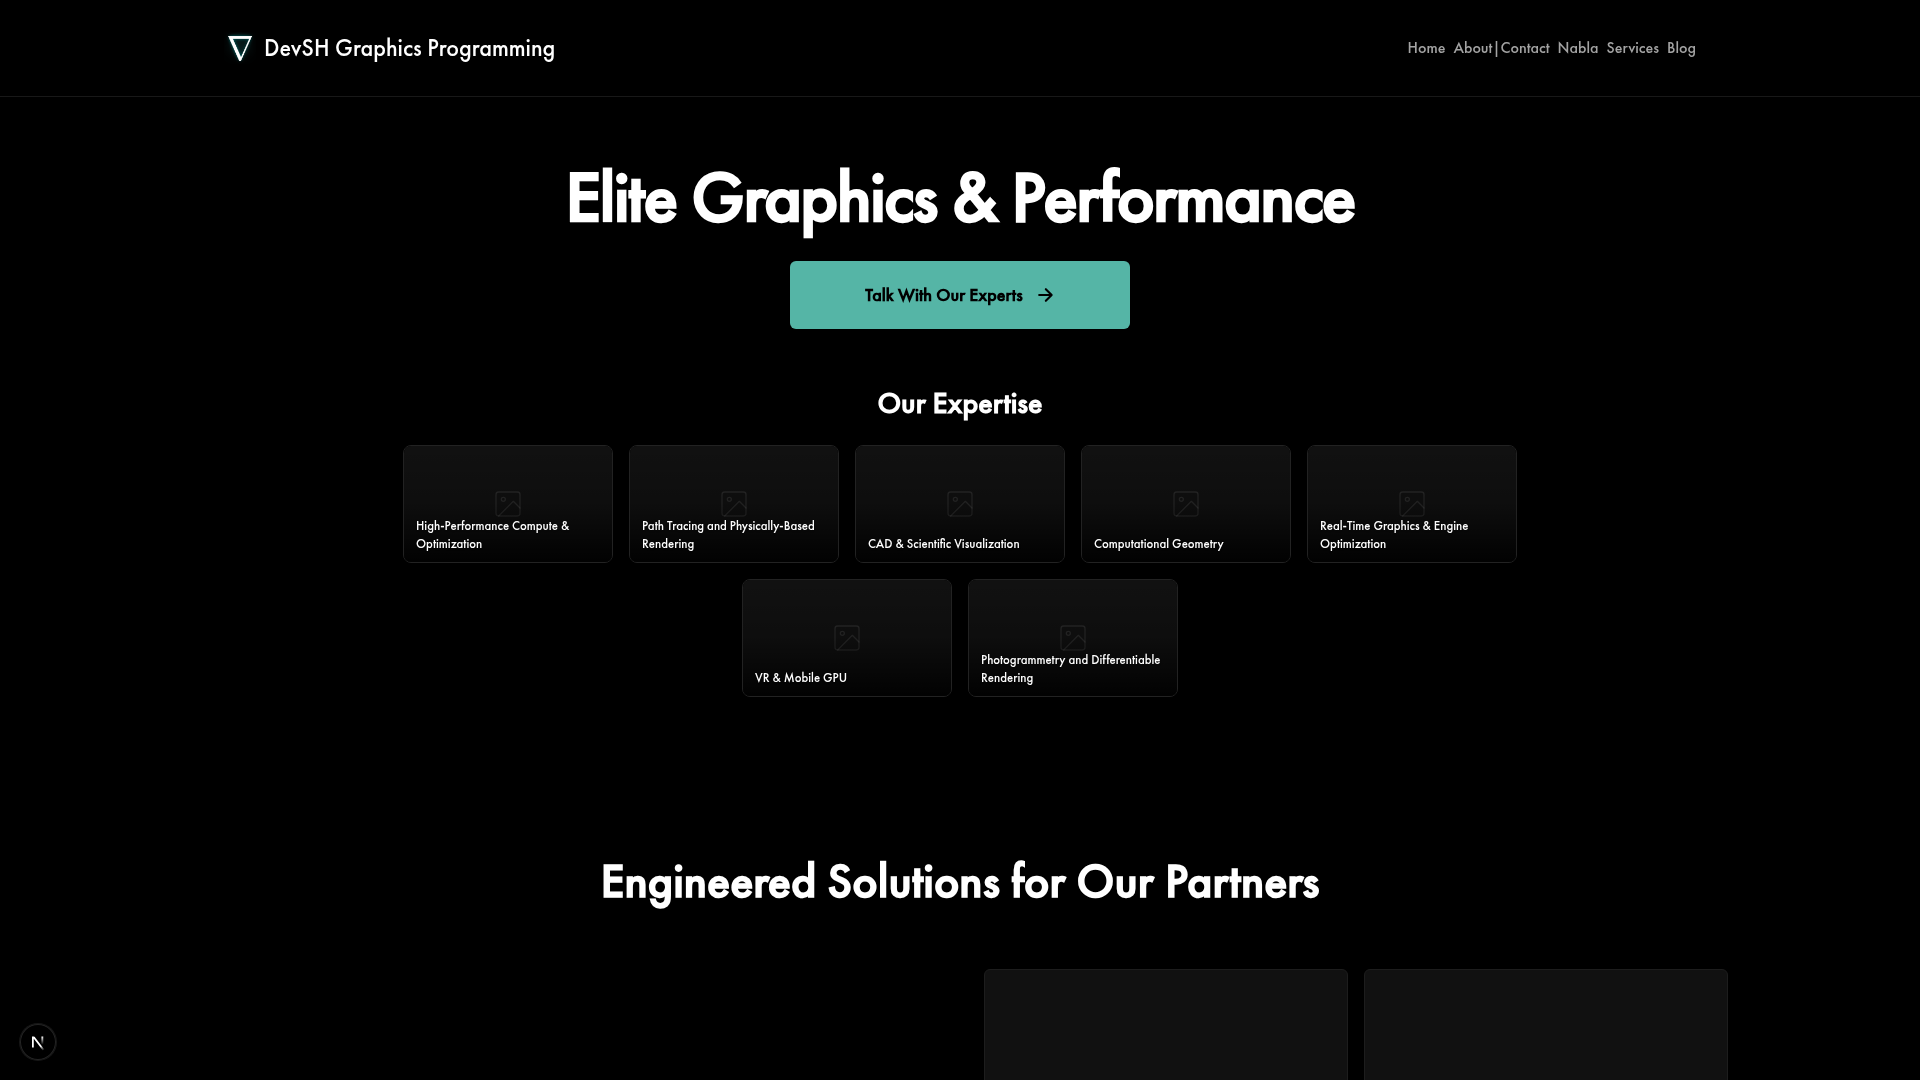
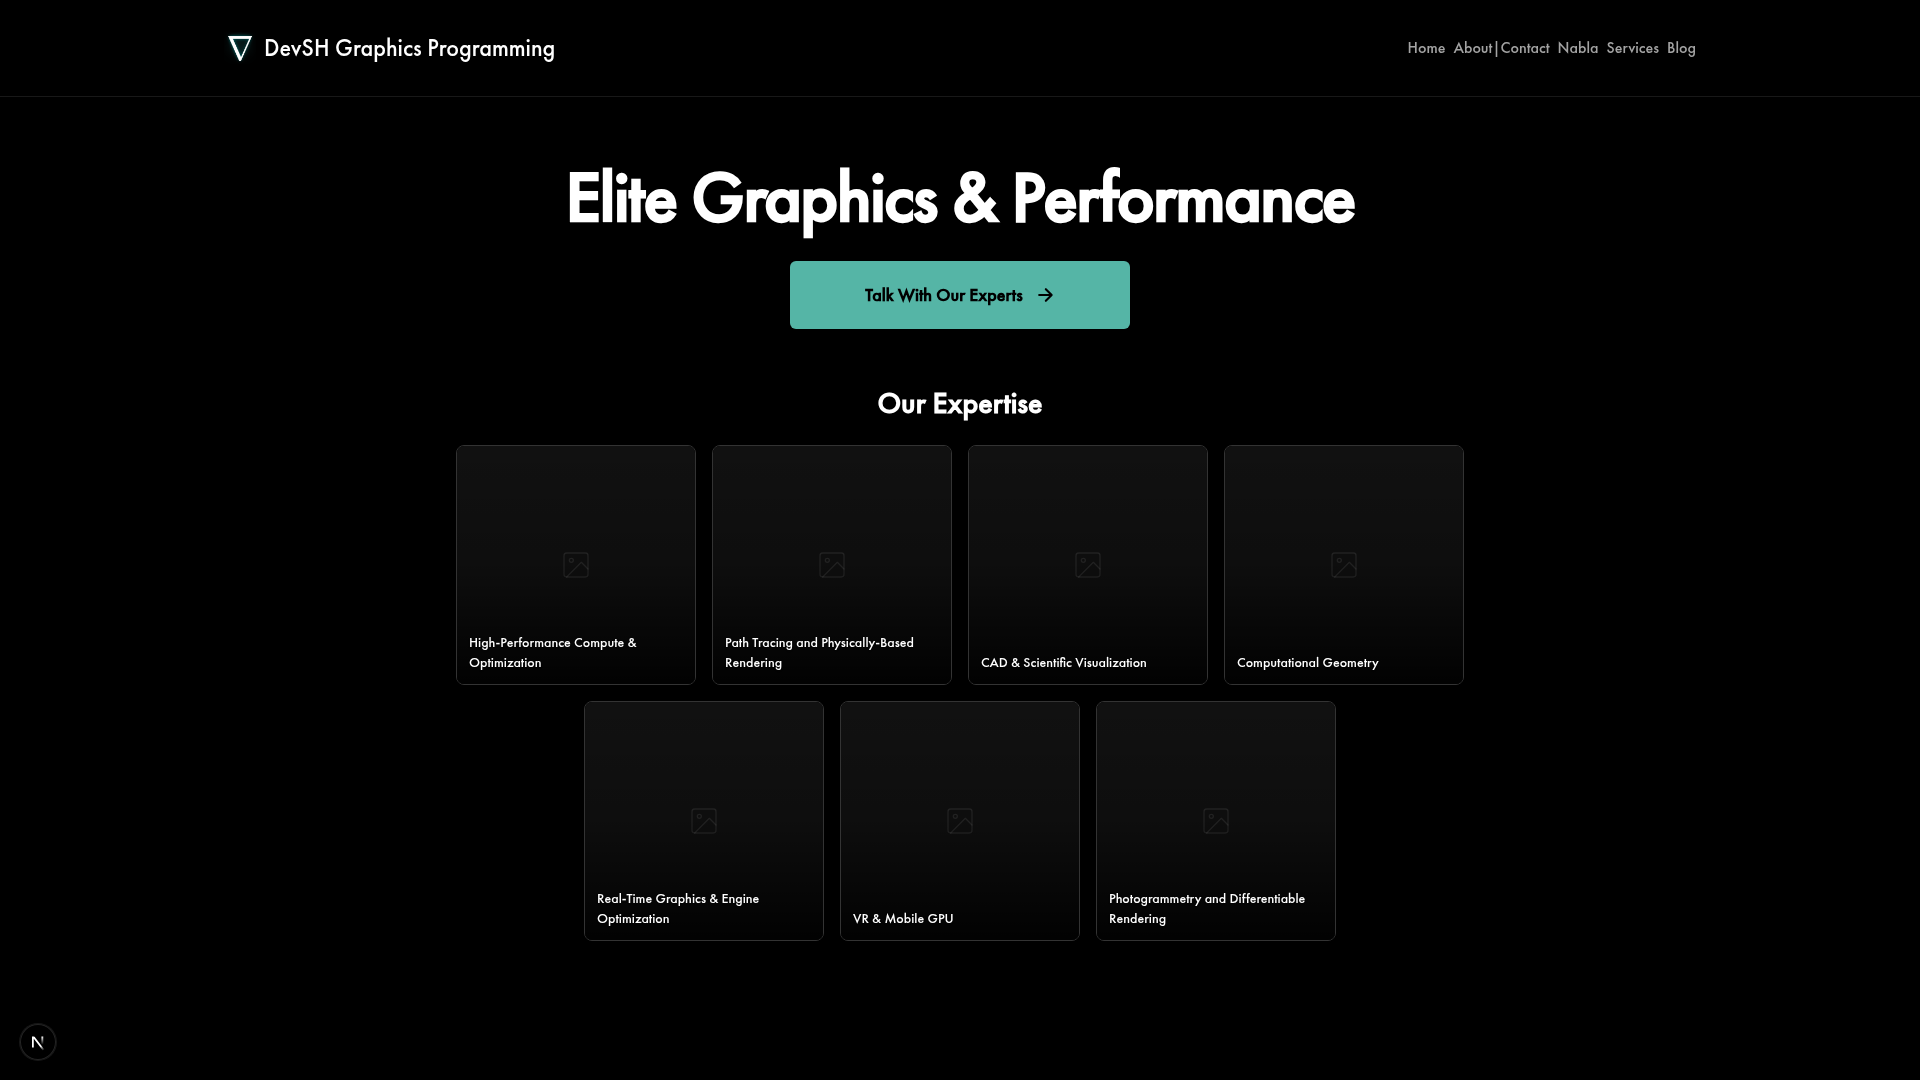
Update expertise cards to be square and improve hover effects
Adjusted ExpertiseGrid cards to use an aspect-square ratio, increased their sizing responsively across breakpoints, and enhanced hover animations with slower transitions, a stronger glow, and an accent ring for better visual feedback.

diff --git a/app/components/ExpertiseGrid.tsx b/app/components/ExpertiseGrid.tsx
@@ -39,13 +39,13 @@ function Card({ title, image, slug }: { title: string; image: string | null; slu
     <a
       href={`#project-${slug}`}
       aria-label={`Jump to ${title} project`}
-      className="group relative block w-full sm:w-[210px] aspect-[16/9] rounded-lg overflow-hidden border border-[#222] transition-all duration-150 hover:border-[var(--brand-accent)] hover:-translate-y-1 hover:shadow-[0_8px_30px_var(--brand-accent-glow)] flex-shrink-0"
+      className="group relative block w-[160px] sm:w-[200px] md:w-[240px] aspect-square rounded-lg overflow-hidden border border-[#333] transition-all duration-500 hover:-translate-y-2 hover:shadow-[0_12px_48px_var(--brand-accent-glow)] flex-shrink-0"
     >
       {image ? (
         <img
           src={image}
           alt={title}
-          className="absolute inset-0 w-full h-full object-cover"
+          className="absolute inset-0 w-full h-full object-cover transition-transform duration-500 group-hover:scale-105"
         />
       ) : (
         <>
@@ -59,9 +59,12 @@ function Card({ title, image, slug }: { title: string; image: string | null; slu
       {/* Gradient fade so text is readable over any image */}
       <div className="absolute inset-0 bg-gradient-to-t from-black/90 via-black/20 to-transparent" />
 
+      {/* Accent border overlay — appears on hover without causing layout shift */}
+      <div className="absolute inset-0 rounded-lg ring-2 ring-inset ring-transparent transition-all duration-500 group-hover:ring-[var(--brand-accent)]" />
+
       {/* Title overlaid at bottom */}
-      <div className="absolute bottom-0 left-0 right-0 px-3 py-2.5">
-        <p className="text-white text-xs sm:text-[0.8rem] font-medium leading-snug drop-shadow-sm transition-colors duration-150 group-hover:text-[var(--brand-accent-bright)]">
+      <div className="absolute bottom-0 left-0 right-0 px-3 py-3">
+        <p className="text-white text-xs sm:text-sm font-medium leading-snug drop-shadow-sm transition-colors duration-500 group-hover:text-[var(--brand-accent-bright)]">
           {title}
         </p>
       </div>
